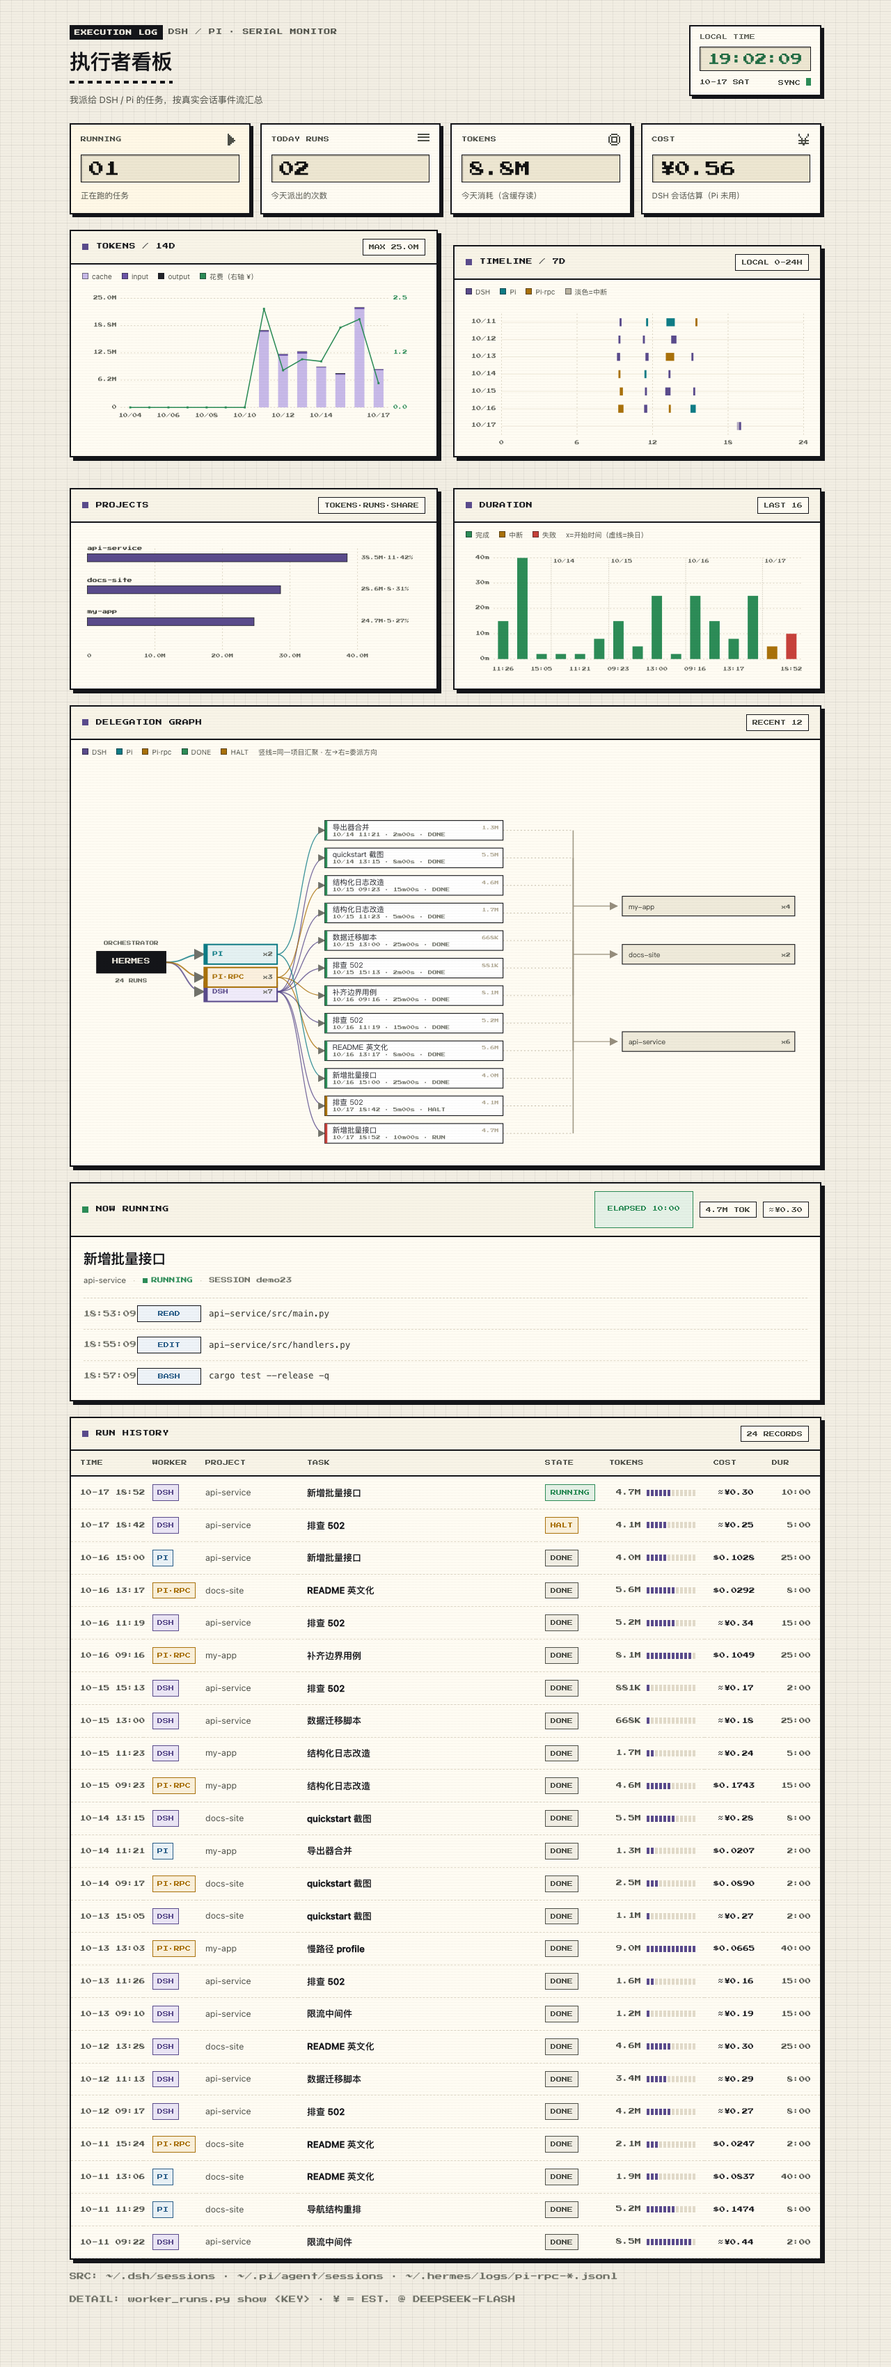
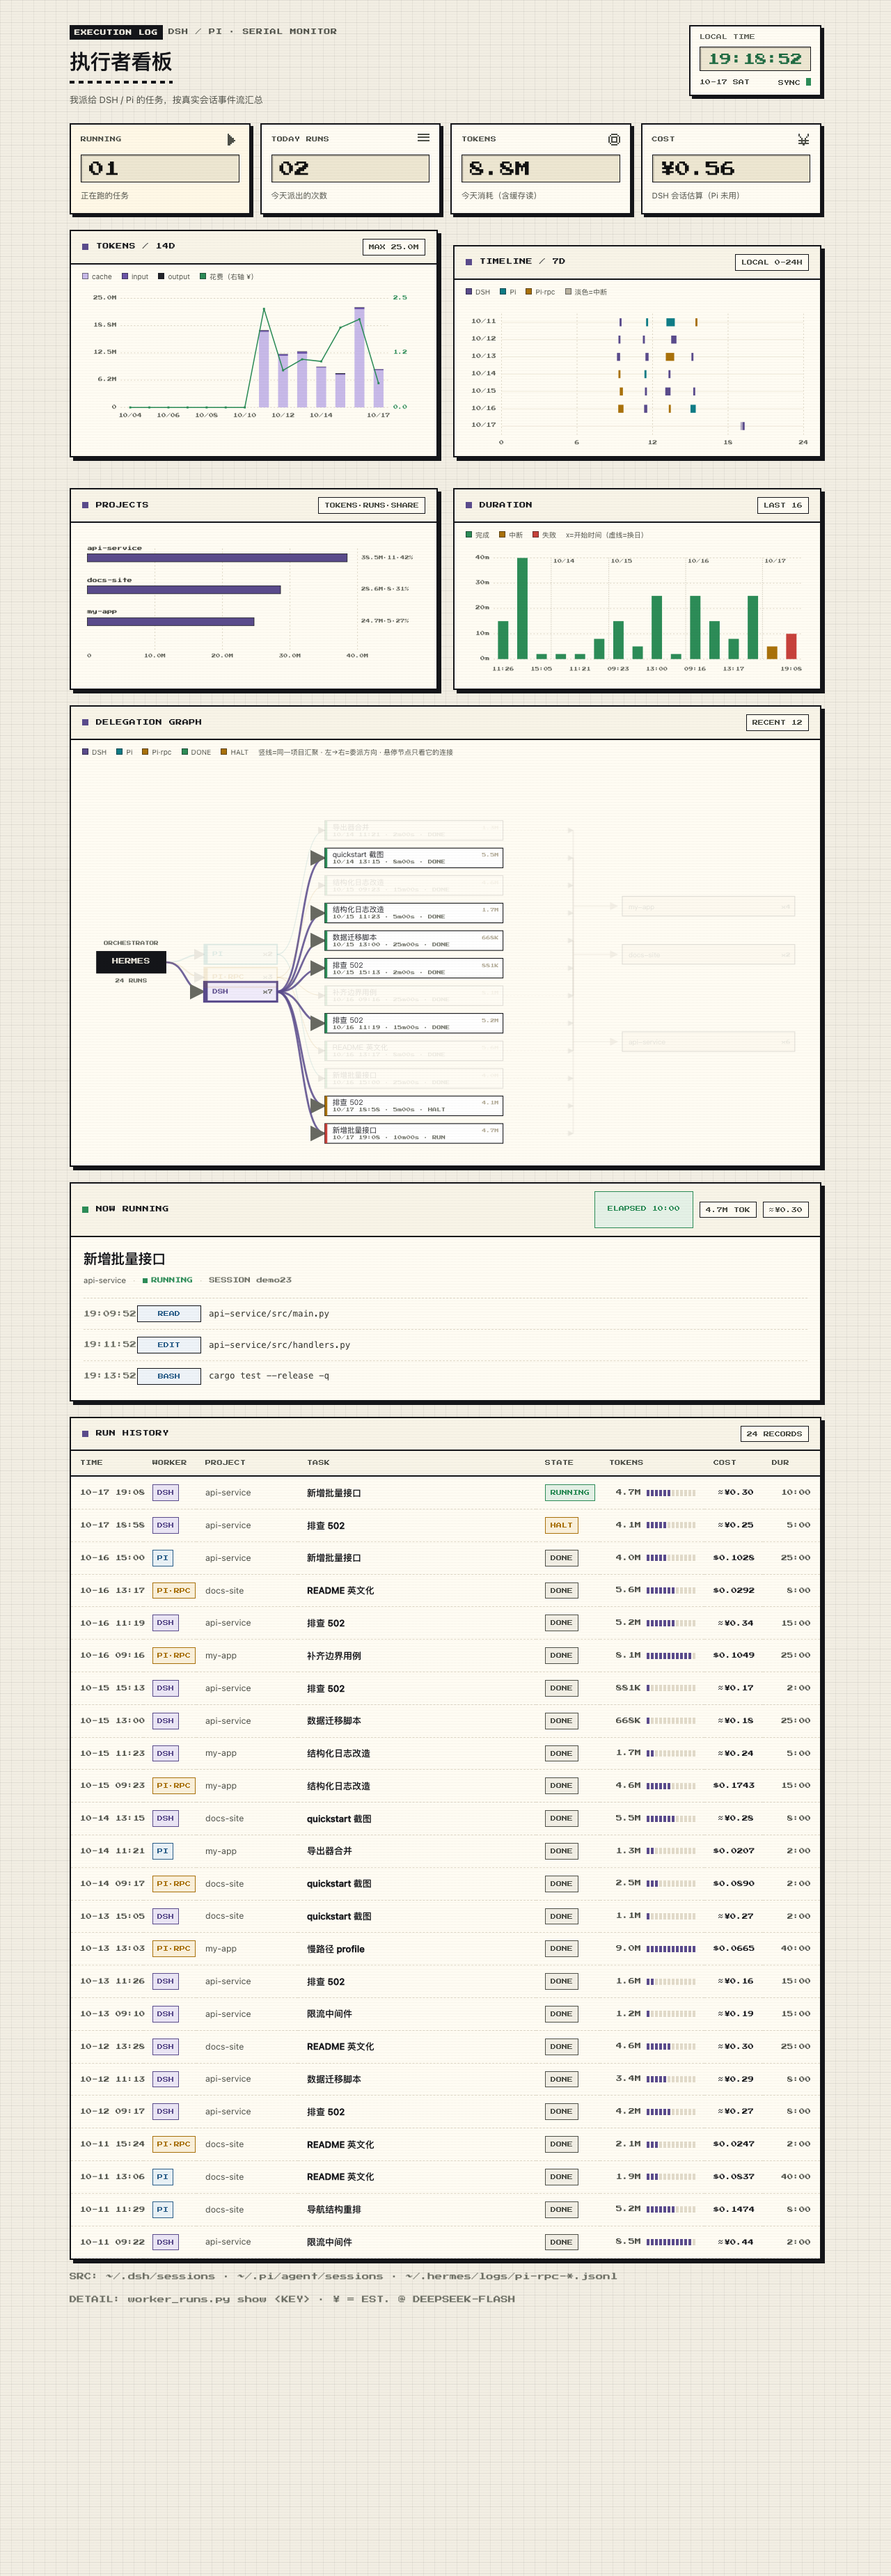
feat(graph): 委派图改成可交互——悬停节点只亮它的连接，点击锁定，支持 ?focus=
- 节点/连线带 data-nid / data-a / data-b 标识，内联 JS 做焦点计算（无框架）
- 悬停即聚焦：相关连线加深、无关的淡到 12%，一眼看清某条链
- 点击锁定视角，锁定期间暂停 meta refresh，Esc 或点空白取消
- ?focus=w:DSH / t:<key> / p:<项目> 可从 URL 直接锁定（分享/截图）
- 示例图改用 ?focus=w:DSH 的演示数据

Changed region(s): [[0.0625, 0.0, 0.9375, 0.9665], [0.6875, 0.3741, 0.9062, 0.4053], [0.5, 0.5924, 0.5312, 0.6235]]

diff --git a/worker_dashboard.py b/worker_dashboard.py
@@ -725,40 +725,49 @@ def chart_network(recs, w=1040, h=560, n=12):
 
     out = [NET_MARK]
 
-    def curve(x1, y1, x2, y2, color, width=1.3):
+    def cd(x1, y1, x2, y2):
         dx = (x2 - x1) * 0.55
-        d = f"M{x1:.1f},{y1:.1f} C{x1 + dx:.1f},{y1:.1f} {x2 - dx:.1f},{y2:.1f} {x2:.1f},{y2:.1f}"
-        out.append(f'<path d="{d}" fill="none" stroke="{color}" stroke-width="{width}" marker-end="url(#arw)" opacity=".8"/>')
+        return (f"M{x1:.1f},{y1:.1f} C{x1 + dx:.1f},{y1:.1f} "
+                f"{x2 - dx:.1f},{y2:.1f} {x2:.1f},{y2:.1f}")
+
+    def edge(a, b, proj, d, color, width=1.3, dashed=False):
+        dash = ' stroke-dasharray="2 3"' if dashed else ''
+        out.append(f'<g class="eg" data-a="{e(a)}" data-b="{e(b)}" data-proj="{e(proj)}">'
+                   f'<path d="{d}" fill="none" stroke="{color}" stroke-width="{width}"{dash} '
+                   f'marker-end="url(#arw)" opacity=".85"/></g>')
 
     # HERMES → worker
     for wk in workers:
         col = PIX_DSH if wk == "DSH" else (PIX_PI if "rpc" not in wk else PIX_RPC)
-        curve(hub["x"] + hub["w"], hub["y"] + hub["h"] / 2, wx, wy[wk] + 14, col, 2.0)
+        edge("hermes", f"w:{wk}", "", cd(hub["x"] + hub["w"], hub["y"] + hub["h"] / 2, wx, wy[wk] + 14), col, 2.0)
 
     # worker → task
     for i, r in enumerate(items):
         col = PIX_DSH if r["worker"] == "DSH" else (PIX_PI if "rpc" not in r["worker"] else PIX_RPC)
-        curve(wx + ww, wy[r["worker"]] + 14, tx, ty[i] + 14, col)
+        edge(f"w:{r['worker']}", f"t:{r['key']}", r.get("project") or "?",
+             cd(wx + ww, wy[r["worker"]] + 14, tx, ty[i] + 14), col)
 
     # task → 项目：先汇到总线，再由总线进项目（避免 7 条虚线交叉）
     for pr in projs:
-        ys = sorted(py[pr] if isinstance(py[pr], list) else [py[pr]])
         ys = sorted(ty[i] + 14 for i, r in enumerate(items) if (r.get("project") or "?") == pr)
         lo, hi = min(ys), max(ys)
-        out.append(f'<path d="M{bus},{lo:.1f} L{bus},{hi:.1f}" stroke="#9E9682" stroke-width="1.6" opacity=".95"/>')
-        out.append(f'<path d="M{bus},{py[pr] + 14:.1f} L{px - 7},{py[pr] + 14:.1f}" stroke="#9E9682" stroke-width="1.4" '
-                   f'marker-end="url(#ar)" opacity=".9"/>')
+        out.append(f'<g class="eg busline" data-a="bus:{e(pr)}" data-b="p:{e(pr)}" data-proj="{e(pr)}">'
+                   f'<path d="M{bus},{lo:.1f} L{bus},{hi:.1f}" stroke="#9E9682" stroke-width="1.6" opacity=".95"/>'
+                   f'<path d="M{bus},{py[pr] + 14:.1f} L{px - 7},{py[pr] + 14:.1f}" stroke="#9E9682" '
+                   f'stroke-width="1.4" marker-end="url(#ar)" opacity=".9"/></g>')
 
     for i, r in enumerate(items):
         pr = r.get("project") or "?"
-        out.append(f'<path d="M{tx + tw},{ty[i] + 14:.1f} L{bus},{ty[i] + 14:.1f}" stroke="#C0B8A4" stroke-width="1" '
-                   f'stroke-dasharray="2 3" opacity=".9"/>')
+        edge(f"t:{r['key']}", f"bus:{pr}", pr,
+             f"M{tx + tw},{ty[i] + 14:.1f} L{bus},{ty[i] + 14:.1f}", "#C0B8A4", 1, dashed=True)
 
     # hub
-    out.append(f'<rect x="{hub["x"]}" y="{hub["y"]}" width="{hub["w"]}" height="{hub["h"]}" fill="#141519"/>')
-    out.append(_t(hub["x"] + hub["w"] / 2, hub["y"] + 19, "HERMES", 9, "#F2EEE3", "middle"))
-    out.append(_t(hub["x"] + hub["w"] / 2, hub["y"] - 8, "ORCHESTRATOR", 6.5, PIX_AXIS, "middle"))
-    out.append(_t(hub["x"] + hub["w"] / 2, hub["y"] + hub["h"] + 14, f"{len(recs)} RUNS", 6.5, PIX_AXIS, "middle"))
+    out.append(f'<g class="gn" data-nid="hermes">'
+               f'<rect x="{hub["x"]}" y="{hub["y"]}" width="{hub["w"]}" height="{hub["h"]}" fill="#141519"/>'
+               f'{_t(hub["x"] + hub["w"] / 2, hub["y"] + 19, "HERMES", 9, "#F2EEE3", "middle")}'
+               f'{_t(hub["x"] + hub["w"] / 2, hub["y"] - 8, "ORCHESTRATOR", 6.5, PIX_AXIS, "middle")}'
+               f'{_t(hub["x"] + hub["w"] / 2, hub["y"] + hub["h"] + 14, f"{len(recs)} RUNS", 6.5, PIX_AXIS, "middle")}'
+               f'</g>')
 
     # worker
     for wk in workers:
@@ -766,10 +775,12 @@ def chart_network(recs, w=1040, h=560, n=12):
         y = wy[wk]
         col = PIX_DSH if wk == "DSH" else (PIX_PI if "rpc" not in wk else PIX_RPC)
         tint = {"DSH": "#F0EBFA", "Pi": "#E4F1F2", "Pi·rpc": "#FBF0DE"}.get(wk, "#FFFCF3")
-        out.append(f'<rect x="{wx}" y="{y:.1f}" width="{ww}" height="28" fill="{tint}" stroke="{col}" stroke-width="2"/>')
-        out.append(f'<rect x="{wx}" y="{y:.1f}" width="5" height="28" fill="{col}"/>')
-        out.append(_t(wx + 12, y + 17.5, wk.upper(), 7.5, col))
-        out.append(_t(wx + ww - 6, y + 17.5, f"x{cnt}", 7, PIX_AXIS, "end"))
+        out.append(f'<g class="gn" data-nid="w:{e(wk)}">'
+                   f'<rect x="{wx}" y="{y:.1f}" width="{ww}" height="28" fill="{tint}" stroke="{col}" stroke-width="2"/>'
+                   f'<rect x="{wx}" y="{y:.1f}" width="5" height="28" fill="{col}"/>'
+                   f'{_t(wx + 12, y + 17.5, wk.upper(), 7.5, col)}'
+                   f'{_t(wx + ww - 6, y + 17.5, f"x{cnt}", 7, PIX_AXIS, "end")}'
+                   f'</g>')
 
     # task
     for i, r in enumerate(items):
@@ -778,31 +789,35 @@ def chart_network(recs, w=1040, h=560, n=12):
         label = _label_of(r)
         short = label if len(label) <= 26 else label[:25] + "…"
         tipx = f"{label} · {r['worker']} · {r['state']} · {human_tok(r.get('tokens'))} tok · {dur_text(r)} · {r['key']}"
-        out.append(f'<rect x="{tx}" y="{y:.1f}" width="{tw}" height="28" fill="#FFFFFF" stroke="#141519" stroke-width="1.1">'
-                   f'{_tip(tipx)}</rect>')
-        out.append(f'<rect x="{tx}" y="{y:.1f}" width="3.5" height="28" fill="{st_col}"/>')
-        out.append(f'<text x="{tx + 11}" y="{y + 13}" font-family="-apple-system,PingFang SC,sans-serif" font-size="10.5" fill="#23242A">{e(short)}</text>')
         st_txt = {"done": "DONE", "interrupted": "HALT", "aborted": "HALT", "FAILED": "FAIL"}.get(r["state"], "RUN")
         meta = f"{datetime.fromtimestamp(r['start'], TZ):%m/%d %H:%M} · {dur_text(r)} · {st_txt}"
-        out.append(_t(tx + 11, y + 23, meta, 6.2, "#6E7066"))
-        out.append(_t(tx + tw - 6, y + 13, human_tok(r.get('tokens')), 6, "#B0A894", "end"))
+        out.append(f'<g class="gn" data-nid="t:{e(r["key"])}">'
+                   f'<rect x="{tx}" y="{y:.1f}" width="{tw}" height="28" fill="#FFFFFF" stroke="#141519" stroke-width="1.1">'
+                   f'{_tip(tipx)}</rect>'
+                   f'<rect x="{tx}" y="{y:.1f}" width="3.5" height="28" fill="{st_col}"/>'
+                   f'<text x="{tx + 11}" y="{y + 13}" font-family="-apple-system,PingFang SC,sans-serif" font-size="10.5" fill="#23242A">{e(short)}</text>'
+                   f'{_t(tx + 11, y + 23, meta, 6.2, "#6E7066")}'
+                   f'{_t(tx + tw - 6, y + 13, human_tok(r.get("tokens")), 6, "#B0A894", "end")}'
+                   f'</g>')
 
     # project
     for pr in projs:
         y = py[pr]
         cnt = sum(1 for r in items if (r.get("project") or "?") == pr)
-        out.append(f'<rect x="{px}" y="{y:.1f}" width="{pw_}" height="28" fill="#EFEADA" stroke="#141519" stroke-width="1.1">'
-                   f'{_tip(f"{pr} · {cnt} runs")}</rect>')
-        out.append(f'<text x="{px + 9}" y="{y + 18}" font-family="-apple-system,PingFang SC,sans-serif" font-size="10" fill="#33342E">{e(pr[:26])}</text>')
-        out.append(_t(px + pw_ - 6, y + 18, f"x{cnt}", 6.5, PIX_AXIS, "end"))
+        out.append(f'<g class="gn" data-nid="p:{e(pr)}">'
+                   f'<rect x="{px}" y="{y:.1f}" width="{pw_}" height="28" fill="#EFEADA" stroke="#141519" stroke-width="1.1">'
+                   f'{_tip(f"{pr} · {cnt} runs")}</rect>'
+                   f'<text x="{px + 9}" y="{y + 18}" font-family="-apple-system,PingFang SC,sans-serif" font-size="10" fill="#33342E">{e(pr[:26])}</text>'
+                   f'{_t(px + pw_ - 6, y + 18, f"x{cnt}", 6.5, PIX_AXIS, "end")}'
+                   f'</g>')
 
     legend = ('<span><i style="background:%s"></i>DSH</span>'
               '<span><i style="background:%s"></i>Pi</span>'
               '<span><i style="background:%s"></i>Pi·rpc</span>'
               '<span><i style="background:%s"></i>DONE</span>'
               '<span><i style="background:%s"></i>HALT</span>'
-              '<span>竖线=同一项目汇聚 · 左→右=委派方向</span>') % (PIX_DSH, PIX_PI, PIX_RPC, PIX_OK, PIX_HALT)
-    svg = f'<svg viewBox="0 0 {w} {h}">{"".join(out)}</svg>'
+              '<span>竖线=同一项目汇聚 · 左→右=委派方向 · 悬停节点只看它的连接</span>') % (PIX_DSH, PIX_PI, PIX_RPC, PIX_OK, PIX_HALT)
+    svg = f'<svg class="net" viewBox="0 0 {w} {h}">{"".join(out)}</svg>'
     return _panel("DELEGATION GRAPH", f"RECENT {len(items)}", svg, legend)
 
 
@@ -814,6 +829,82 @@ def charts_html(recs):
     grid = (chart_daily(recs) + chart_gantt(recs) + chart_projects(recs) + chart_durations(recs))
     return f'<div class="grid2">{grid}</div>'
 
+
+
+NET_CSS = """
+svg.net .eg,svg.net .gn{transition:opacity .12s}
+svg.net .gn{cursor:pointer}
+svg.net.hasfocus .eg.dim,svg.net.hasfocus .gn.dim{opacity:.12}
+svg.net.hasfocus .eg.hl path{stroke-width:2.8}
+svg.net.hasfocus .gn.hl rect{stroke-width:3}
+"""
+
+NET_JS = """
+<script>
+(function(){
+  var svg = document.querySelector('svg.net');
+  if(!svg) return;
+  var edges = [].slice.call(svg.querySelectorAll('.eg'));
+  var nodes = [].slice.call(svg.querySelectorAll('.gn'));
+  var hovered = null, pinned = null;
+  var meta = document.querySelector('meta[http-equiv=refresh]');
+  var spec = meta ? meta.getAttribute('content') : null;
+  function pause(){ if(meta){ meta.parentNode.removeChild(meta); meta = null; } }
+  function resume(){
+    if(spec && !document.querySelector('meta[http-equiv=refresh]')){
+      var m = document.createElement('meta');
+      m.setAttribute('http-equiv','refresh'); m.setAttribute('content', spec);
+      document.head.appendChild(m); meta = m;
+    }
+  }
+  function related(id){
+    return edges.filter(function(g){
+      var a = g.getAttribute('data-a'), b = g.getAttribute('data-b'), pr = g.getAttribute('data-proj');
+      if(a === id || b === id) return true;
+      if(id.indexOf('p:') === 0 && pr === id.slice(2)) return true;          // 项目：它名下的所有派活
+      if(id.indexOf('t:') === 0 && pr && a === 'bus:' + pr) return true;     // 任务：连到它项目的那条总线
+      return false;
+    });
+  }
+  function apply(){
+    var id = hovered || pinned;
+    svg.classList.toggle('hasfocus', !!id);
+    if(!id){
+      edges.forEach(function(g){ g.classList.remove('hl','dim'); });
+      nodes.forEach(function(g){ g.classList.remove('hl','dim'); });
+      return;
+    }
+    var rel = related(id), keep = {};
+    keep[id] = 1;
+    rel.forEach(function(g){ keep[g.getAttribute('data-a')] = 1; keep[g.getAttribute('data-b')] = 1; });
+    edges.forEach(function(g){ var on = rel.indexOf(g) >= 0; g.classList.toggle('hl', on); g.classList.toggle('dim', !on); });
+    nodes.forEach(function(n){
+      var k = n.getAttribute('data-nid'), on = !!keep[k];
+      n.classList.toggle('hl', k === id);
+      n.classList.toggle('dim', !on);
+    });
+  }
+  svg.addEventListener('mouseover', function(ev){
+    var g = ev.target.closest && ev.target.closest('.gn');
+    var id = g ? g.getAttribute('data-nid') : null;
+    if(id !== hovered){ hovered = id; apply(); if(id) pause(); }
+  });
+  svg.addEventListener('mouseleave', function(){ hovered = null; apply(); if(!pinned) resume(); });
+  svg.addEventListener('click', function(ev){
+    var g = ev.target.closest && ev.target.closest('.gn');
+    var id = g ? g.getAttribute('data-nid') : null;
+    pinned = (id && pinned !== id) ? id : null;
+    apply();
+    if(pinned) pause(); else resume();
+  });
+  document.addEventListener('keydown', function(e){
+    if(e.key === 'Escape'){ pinned = null; hovered = null; apply(); resume(); }
+  });
+  var q = (location.search.match(/[?&]focus=([^&]+)/) || [])[1];
+  if(q){ pinned = decodeURIComponent(q); apply(); pause(); }
+})();
+</script>
+"""
 
 def render_pixel(recs, refresh):
     now = datetime.now(TZ)
@@ -829,7 +920,7 @@ def render_pixel(recs, refresh):
 <meta name="viewport" content="width=device-width,initial-scale=1">
 <title>执行者看板 · PIXEL</title>
 {'<meta http-equiv="refresh" content="%d">' % refresh if refresh else ''}
-<style>{_font_css()}{CSS_PIXEL}</style></head><body><div class="wrap">"""
+<style>{_font_css()}{CSS_PIXEL}{NET_CSS}</style></head><body><div class="wrap">"""
 
     top = f"""
 <div class="top">
@@ -921,7 +1012,7 @@ def render_pixel(recs, refresh):
   <span class="px">SRC: ~/.dsh/sessions · ~/.pi/agent/sessions · ~/.hermes/logs/pi-rpc-*.jsonl</span>
   <span class="px">DETAIL: worker_runs.py show &lt;KEY&gt; · ¥ = EST. @ DEEPSEEK-FLASH</span>
 </div>
-</div></body></html>"""
+</div>{NET_JS}</body></html>"""
     return head + top + charts + live + table
 
 

diff --git a/README.md b/README.md
@@ -22,13 +22,24 @@ run history.
 | `TIMELINE / 7D` | every run as a band on a local 0–24h clock, coloured by worker |
 | `PROJECTS` | tokens, run count and share per workspace |
 | `DURATION` | recent runs by wall-clock length, green / amber / red by outcome |
-| `DELEGATION GRAPH` | orchestrator → worker → task nodes → workspace, one lane per dispatch |
+| `DELEGATION GRAPH` | orchestrator → worker → task nodes → workspace, one lane per dispatch; **hover a node to keep only its links lit**, click to pin, `Esc` to clear |
 | `NOW RUNNING` | the current task with its last tool calls, elapsed time, tokens, cost |
 | `RUN HISTORY` | every run: time, worker, project, task, state, tokens (12-cell bar), cost, duration |
 
 Refresh is a plain `<meta http-equiv="refresh">` — no JS framework, no build
 step, no network calls. The page is generated from scratch on every request, so
 what you see is always the state of the logs at that moment.
+
+### Reading the delegation graph
+
+- Hover any node — `HERMES`, a worker, a single task row, or a workspace — and
+  only its links stay lit; everything else fades to 12% opacity. On a busy day
+  this is the difference between a diagram and spaghetti.
+- Click a node to **pin** the focus; auto-refresh pauses while something is
+  pinned so the view does not jump out from under the pointer. `Esc` (or a click
+  on empty space) clears it.
+- `?focus=w:DSH` pins from the URL: `t:<key>` a task, `w:<worker>` a worker,
+  `p:<project>` a workspace. Useful for sharing a view or taking screenshots.
 
 ## Quick start
 

diff --git a/README.zh-CN.md b/README.zh-CN.md
@@ -19,12 +19,18 @@
 | `TIMELINE / 7D` | 每次运行画成本地 0–24 点的一条色带，按执行者着色 |
 | `PROJECTS` | 每个工作区的 token、次数、占比 |
 | `DURATION` | 最近若干次运行的实际耗时，按结果绿/黄/红 |
-| `DELEGATION GRAPH` | 编排 → 执行者 → 任务节点 → 工作区，一次派活一条车道 |
+| `DELEGATION GRAPH` | 编排 → 执行者 → 任务节点 → 工作区，一次派活一条车道；**悬停节点只亮它的连接**，点击锁定，`Esc` 取消 |
 | `NOW RUNNING` | 当前任务 + 最近几次工具调用 + 已运行时长 + token + 花费 |
 | `RUN HISTORY` | 全部流水：时间 / 执行者 / 项目 / 任务 / 状态 / token（12 格量级条）/ 花费 / 耗时 |
 
 刷新就是一个 `<meta http-equiv="refresh">`：没有前端框架、没有构建步骤、不联网。
 每次请求都重新采集 + 重新渲染，所以页面上永远是"此刻的日志"。
+
+### 委派图怎么看
+
+- 鼠标放到任意节点上——`HERMES`、某个执行者、某一条任务、或某个工作区——只有和它相关的连线保持点亮，其余淡到 12%。任务多的时候，这一下就把"一团面"变成"一条链"。
+- 点击节点可以**锁定**这个视角；锁定期间自动刷新会暂停，免得鼠标还没看完页面就跳走。`Esc` 或点空白处取消。
+- 也支持从 URL 锁定：`?focus=w:DSH`（执行者）、`?focus=t:<key>`（单条任务）、`?focus=p:<项目>`（工作区），方便把某个视角发给别人或截图。
 
 ## 快速开始
 
